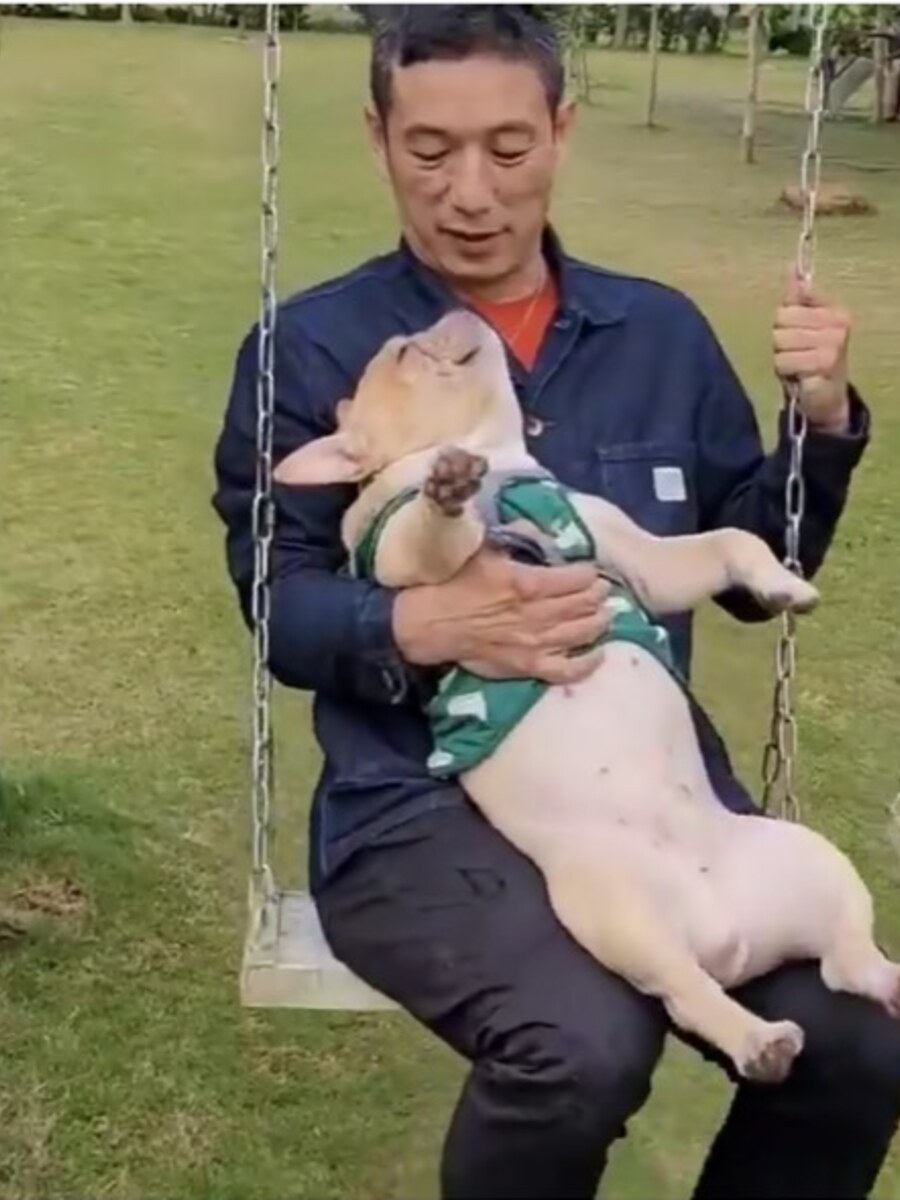
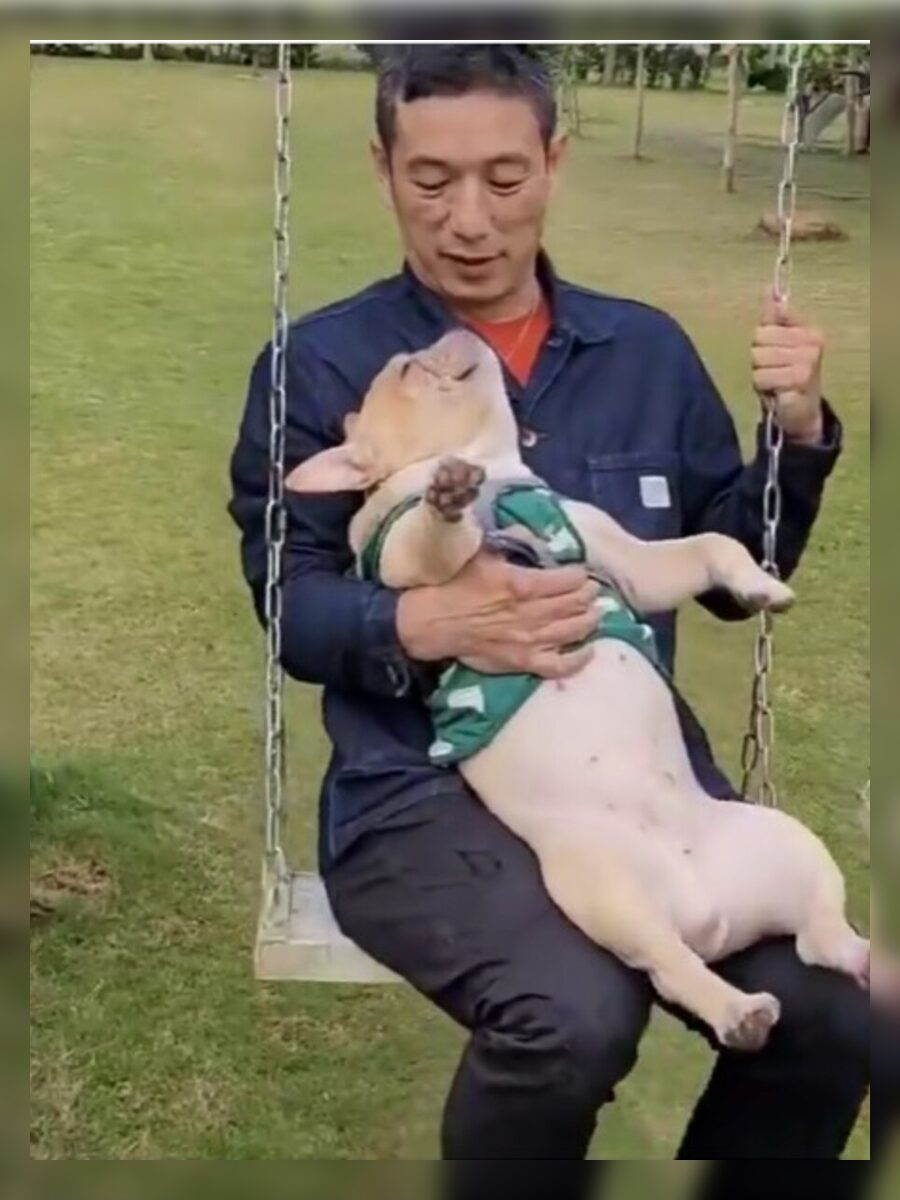
Update coach section layout and profiles

diff --git a/deploy/index.html b/deploy/index.html
@@ -815,6 +815,7 @@
       width: 100%;
       height: 100%;
       object-fit: cover;
+      object-position: 50% 0%;
     }
     .coach-photo-placeholder {
       display: grid;
@@ -824,16 +825,7 @@
         url("boxing-land-logo-white.png") center / 42% auto no-repeat,
         var(--ink);
     }
-    .coach-photo-pan img { object-position: 50% 8%; }
-    .coach-photo-kuan img { object-position: 50% 10%; }
-    .coach-photo-lin img { object-position: 50% 16%; }
-    .coach-photo-huang img { object-position: 64% 18%; }
-    .coach-photo-yang img { object-position: 50% 8%; }
-    .coach-photo-zhang img { object-position: 50% 18%; }
-    .coach-photo-cai img { object-position: 50% 10%; }
-    .coach-photo-zheng img { object-position: 50% 10%; }
-    .coach-photo-xu img { object-position: 50% 10%; }
-    .coach-photo-yong-chen img { object-position: 50% 10%; }
+    .coach-photo-huang img { object-position: 64% 0%; }
     .coach-body {
       padding: clamp(24px, 3vw, 34px);
     }
@@ -881,6 +873,86 @@
       background: rgba(255,255,255,.1);
       color: rgba(255,255,255,.86);
     }
+    .coach-mobile-list { display: none; }
+    .coach-mobile-item {
+      border: 1px solid var(--line);
+      border-radius: 8px;
+      background: #fbf7ef;
+      overflow: hidden;
+    }
+    .coach-mobile-summary {
+      display: grid;
+      grid-template-columns: 74px minmax(0, 1fr) 18px;
+      gap: 12px;
+      align-items: center;
+      padding: 12px;
+      cursor: pointer;
+      list-style: none;
+    }
+    .coach-mobile-summary::-webkit-details-marker { display: none; }
+    .coach-mobile-avatar {
+      width: 74px;
+      height: 74px;
+      margin: 0;
+      border-radius: 50%;
+      overflow: hidden;
+      background: #ddd;
+    }
+    .coach-mobile-avatar.coach-photo,
+    .coach-mobile-avatar.coach-photo-placeholder { aspect-ratio: auto; }
+    .coach-mobile-avatar img,
+    .coach-mobile-avatar .coach-photo-placeholder {
+      width: 100%;
+      height: 100%;
+      object-fit: cover;
+    }
+    .coach-mobile-avatar.coach-photo-placeholder,
+    .coach-mobile-avatar .coach-photo-placeholder { background-size: 58% auto; }
+    .coach-mobile-label {
+      margin: 0 0 2px;
+      color: var(--gold-readable);
+      font-size: 11px;
+      font-weight: 950;
+    }
+    .coach-mobile-name {
+      margin: 0;
+      font-size: 20px;
+      line-height: 1.15;
+      font-weight: 950;
+    }
+    .coach-mobile-excerpt {
+      margin: 6px 0 0;
+      color: var(--muted);
+      font-size: 13px;
+      line-height: 1.45;
+      display: -webkit-box;
+      -webkit-line-clamp: 2;
+      -webkit-box-orient: vertical;
+      overflow: hidden;
+    }
+    .coach-mobile-arrow {
+      color: var(--gold-readable);
+      font-weight: 950;
+      transition: transform .18s ease;
+    }
+    .coach-mobile-item[open] .coach-mobile-arrow { transform: rotate(45deg); }
+    .coach-mobile-detail {
+      display: grid;
+      gap: 12px;
+      padding: 0 14px 16px;
+    }
+    .coach-mobile-detail .coach-description {
+      gap: 8px;
+      font-size: 14px;
+      line-height: 1.65;
+    }
+    .coach-mobile-detail > p {
+      margin: 0;
+      color: var(--muted);
+      font-size: 14px;
+      line-height: 1.65;
+    }
+    .coach-mobile-detail .coach-tags { margin-top: 0; }
 
     .split {
       display: grid;
@@ -1366,7 +1438,7 @@
       .hero-actions .btn { width: 100%; }
       .service-wall { grid-template-columns: 1fr; min-height: 0; }
       .service-panel { min-height: 360px; }
-      .coach-photo { aspect-ratio: 4 / 3; }
+      .coach-photo { aspect-ratio: 3 / 4; }
       .service-panel:hover::after,
       .service-panel:focus-visible::after { border-width: 5px; }
       .course-grid, .course-info-grid, .product-grid, .case-grid, .faq-grid, .contact-methods, .location-grid { grid-template-columns: 1fr; }
@@ -1414,6 +1486,12 @@
         flex: 0 0 min(84vw, 340px);
         min-width: 0;
         scroll-snap-align: start;
+      }
+      #coaches.has-mobile-coach-list .coach-cards { display: none; }
+      #coaches .coach-mobile-list {
+        display: grid;
+        gap: 10px;
+        margin-top: 18px;
       }
       .product-empty {
         grid-column: auto;
@@ -1662,6 +1740,8 @@
           </article>
         </div>
 
+        <div class="coach-mobile-list" id="coachMobileList"></div>
+
         <div class="coach-cards">
           <article class="coach-card photo-card">
             <figure class="coach-photo coach-photo-pan">
@@ -1809,6 +1889,28 @@
               <h3>詠宸</h3>
               <p>團課與私教皆以基礎拳法、步伐節奏與拳擊體能為核心，協助學員建立穩定出拳、核心控制與安全訓練習慣，並依程度調整強度與動作細節。</p>
               <div class="coach-tags"><span>團課</span><span>私教</span><span>拳擊體能</span></div>
+            </div>
+          </article>
+          <article class="coach-card photo-card">
+            <figure class="coach-photo coach-photo-pei-shan">
+              <img src="assets/coaches/pei-shan.jpg" alt="佩珊教練" width="900" height="1200" loading="lazy" decoding="async">
+            </figure>
+            <div class="coach-body">
+              <p class="eyebrow">教練</p>
+              <h3>佩珊</h3>
+              <p>課程以兒童拳擊、基礎體能與團體訓練為主，透過安全節奏、動作協調與互動引導，協助學員建立運動習慣、專注力與拳擊基本動作。</p>
+              <div class="coach-tags"><span>兒童拳擊</span><span>體能訓練</span><span>團課</span></div>
+            </div>
+          </article>
+          <article class="coach-card photo-card">
+            <figure class="coach-photo coach-photo-wan-ru">
+              <img src="assets/coaches/wan-ru.jpg" alt="婉茹教練" width="900" height="1200" loading="lazy" decoding="async">
+            </figure>
+            <div class="coach-body">
+              <p class="eyebrow">教練</p>
+              <h3>婉茹</h3>
+              <p>團課與私教皆以基礎拳法、拳擊體能與動作協調為主，依學員程度調整訓練節奏，協助建立穩定出拳、核心控制與安全運動習慣。</p>
+              <div class="coach-tags"><span>團課</span><span>私教</span><span>體能訓練</span></div>
             </div>
           </article>
         </div>
@@ -2068,6 +2170,62 @@
         document.body.classList.remove('menu-open');
       });
     });
+
+    const coachMobileList = document.getElementById('coachMobileList');
+    if (coachMobileList) {
+      const mobileCoachItems = [...document.querySelectorAll('.coach-cards > .coach-card')].map((card) => {
+        const item = document.createElement('details');
+        item.className = 'coach-mobile-item';
+
+        const summary = document.createElement('summary');
+        summary.className = 'coach-mobile-summary';
+
+        const photo = card.querySelector('.coach-photo')?.cloneNode(true);
+        if (photo) {
+          photo.classList.add('coach-mobile-avatar');
+        }
+
+        const meta = document.createElement('div');
+        const label = document.createElement('p');
+        label.className = 'coach-mobile-label';
+        label.textContent = card.querySelector('.eyebrow')?.textContent || '教練';
+
+        const name = document.createElement('h3');
+        name.className = 'coach-mobile-name';
+        name.textContent = card.querySelector('h3')?.textContent || '';
+
+        const detail = document.createElement('div');
+        detail.className = 'coach-mobile-detail';
+        const description = card.querySelector('.coach-description');
+        if (description) {
+          detail.append(description.cloneNode(true));
+        } else {
+          card.querySelectorAll('.coach-body > p:not(.eyebrow)').forEach((paragraph) => {
+            detail.append(paragraph.cloneNode(true));
+          });
+        }
+
+        const excerpt = document.createElement('p');
+        excerpt.className = 'coach-mobile-excerpt';
+        excerpt.textContent = detail.textContent.trim();
+
+        const tags = card.querySelector('.coach-tags')?.cloneNode(true);
+        if (tags) detail.append(tags);
+
+        const arrow = document.createElement('span');
+        arrow.className = 'coach-mobile-arrow';
+        arrow.setAttribute('aria-hidden', 'true');
+        arrow.textContent = '+';
+
+        meta.append(label, name, excerpt);
+        summary.append(photo || document.createElement('span'), meta, arrow);
+        item.append(summary, detail);
+        return item;
+      });
+
+      coachMobileList.replaceChildren(...mobileCoachItems);
+      document.getElementById('coaches')?.classList.add('has-mobile-coach-list');
+    }
 
     const products = window.catalogProducts || [];
     const productGrid = document.getElementById('productGrid');